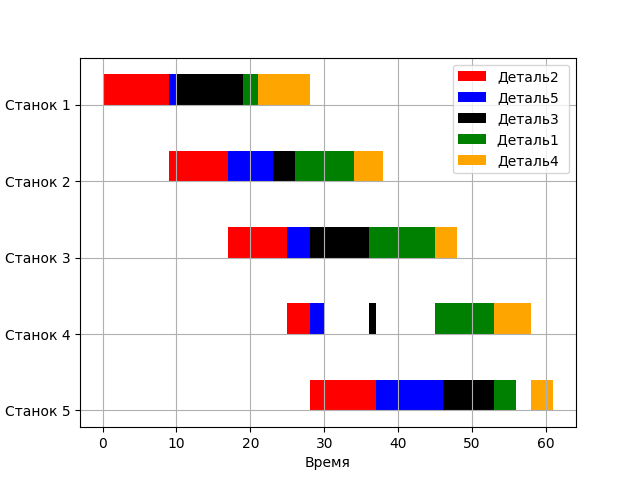
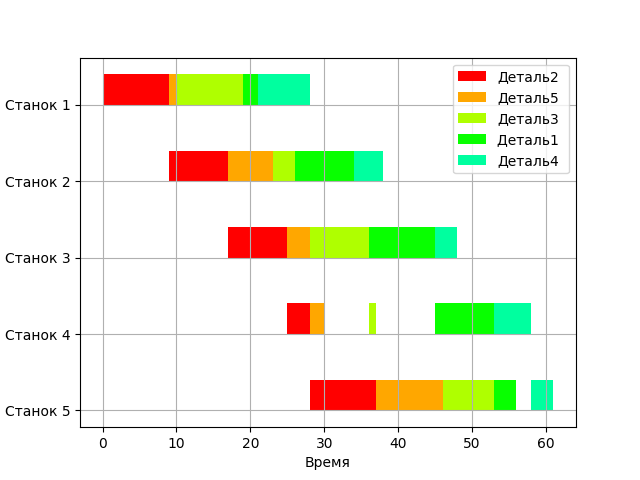
inteface update and fork to backend app

diff --git a/methods.py b/methods.py
@@ -3,10 +3,12 @@ import numpy as np
 import pandas as pd
 from math import sin
 from plot import plot
+import uuid
 class METHOD_ABSTRACT():
-    def read_data(self, filename) -> pd.DataFrame: 
+    def read_data(self, filename:str) -> pd.DataFrame: 
         data = pd.read_csv(filename)
         return data
+    
 
 
 
@@ -15,43 +17,41 @@ class FirstJohnsonGeneralizations(METHOD_ABSTRACT):
     def create_count_window(self, filename): 
         data = super().read_data(filename)
         first_row = data.loc[data.index[0]][1::].sort_values()
-        with dpg.window(label=f"Первое обощение Джонсона {filename}"):
+        with dpg.window(label=f"Первое обощение Джонсона {filename}", width= 600, height=800):
             dpg.add_text("ВХОДНОЙ МАССИВ ДЕТАЛЕЙ")
             dpg.add_text(data.to_string())
             dpg.add_text("\nПОРЯДОК ЗАПУСКА ДЕТАЛЕЙ")
             dpg.add_text(first_row.to_string())
             dpg.add_text("\nДИАГРАММА ГАНТА")
+            dpg.add_combo(label="Обработанные детали", items = first_row.index.to_list())
             plot(data, first_row)
-            #with dpg.plot(tag="plot", label="ДИАГРАММА ГАНТА", height=500, width=600):
-            #    dpg.add_plot_legend()
-            #    sindatax = []
-            #    sindatay = []
-            #    for i in range(0, 100):
-            #        sindatax.append(i / 100)
-            #        if i > 50:
-            #            sindatay.append(2)
-            #        else:
-            #            sindatay.append(1)
-            #    # REQUIRED: create x and y axes
-            #    dpg.add_plot_axis(dpg.mvXAxis, label="ВРЕМЯ ОБРАБОТКИ")
-            #    dpg.add_plot_axis(dpg.mvYAxis, label="СТАНОК", tag="yaxis")
-            #    # series belong to a y axis
-            #    #dpg.add_area_series(sindatax, sindatay, label="Деталь 1", parent="yaxis", tag="series_data", contribute_to_bounds =True)
-            #    dpg.add_bar_series([4,5], [1,1], label="Деталь 1", parent="yaxis", tag="series_data1", horizontal=True)
-            #    dpg.add_bar_series([1,1], [3,3], label="Деталь 2", parent="yaxis", tag="series_data2", horizontal=True)
-            #    dpg.custom_series([4,5], [1,1], 2, label="Custom Series", tag="demo_custom_series")
+            width, height, channels, first_image = dpg.load_image("gantt1.png")
+            texture_name = str(uuid.uuid4())
+            with dpg.texture_registry():
+                dpg.add_static_texture(width, height, first_image, tag=texture_name)
+            dpg.add_image(texture_name)
+
+                
+
 
 # ВТОРОЕ ОБОБЩЕНИЕ ДЖОНСОНА - СНАЧАЛА ИДУТ ДЕТАЛИ С МАКСИМАЛЬНЫМ ВРЕМЕНЕМ ОБРАБОТКИ НА ПОСЛЕДНЕМ СТАНКЕ
 class SecondJohnsonGeneralizations(METHOD_ABSTRACT):
     def create_count_window(self, filename): 
         data = super().read_data(filename)
         last_row = data.loc[data.index[-1]][1::].sort_values(ascending=False)
-        with dpg.window(label=f"Второе обощение Джонсона {filename}"):
+        with dpg.window(label=f"Второе обощение Джонсона {filename}", width= 600, height=800):
             dpg.add_text("ВХОДНОЙ МАССИВ ДЕТАЛЕЙ")
             dpg.add_text(data.to_string())
             dpg.add_text("\nПОРЯДОК ЗАПУСКА ДЕТАЛЕЙ")
             dpg.add_text(last_row.to_string())
+            dpg.add_combo(label="Обработанные детали", items = last_row.index.to_list())
             plot(data, last_row)
+            width, height, channels, first_image = dpg.load_image("gantt1.png")
+            texture_name = str(uuid.uuid4())
+            with dpg.texture_registry():
+                dpg.add_static_texture(width, height, first_image, tag=texture_name)
+            dpg.add_image(texture_name)
+
 
 class ThirdJohnsonGeneralizations(METHOD_ABSTRACT):
     def create_count_window(self, filename): 
@@ -62,5 +62,5 @@ class METH_CONSTR:
         return FirstJohnsonGeneralizations()
     def second_johnson_generalizations(self,) -> SecondJohnsonGeneralizations: 
         return SecondJohnsonGeneralizations()
-    def third_johnson_generalizations(self,) -> ThirdJohnsonGeneralizations: 
-        return ThirdJohnsonGeneralizations()
+#    def third_johnson_generalizations(self,) -> ThirdJohnsonGeneralizations: 
+#        return ThirdJohnsonGeneralizations()

diff --git a/fork_v1/plot.py b/fork_v1/plot.py
@@ -1,40 +1,27 @@
 import pandas as pd
-import numpy as np
-import matplotlib
 import matplotlib.pyplot as plt
-import datetime as dt
 
-def get_cmap(n, name='hsv'):
-    '''Returns a function that maps each index in 0, 1, ..., n-1 to a distinct 
-    RGB color; the keyword argument name must be a standard mpl colormap name.'''
-    return plt.cm.get_cmap(name, n)
+def get_cmap(n, name='hsv'): return plt.cm.get_cmap(name, n)
 
-def plot(df:pd.DataFrame, order:pd.Series):
-    #plt.style.use('dark_background')
+def plot(df:pd.DataFrame, order:pd.Series, filename:str):
     fig, gnt = plt.subplots()
-    gnt.name = "Диаграмма Ганта"
-    # Setting labels for x-axis and y-axis
     gnt.set_xlabel('Время')
     gnt.set_ylabel('Станки')
 
-    # Setting ticks on y-axis
     y_labels = df.iloc[:, 0].to_list()
     y_labels.reverse()
     y_ticks = [i*5+1 for i in range(1, len(y_labels)+1)]
     gnt.set_yticks(y_ticks)
     y_ticks.reverse()
-    # Labelling tickes of y-axis
     gnt.set_yticklabels(y_labels)
     delays =  [0 for i in range(1, len(y_labels)+1)]
     gnt.grid(True)
-    colors = ['red', 'blue', 'black', 'green', 'orange']
     cmap = get_cmap(10)
     detail = 0
     for index in order.index:
         data = df[index]
         workspace = 0
         next_delay = 0
-
         for val in data:
             if detail == 0:
                 gnt.broken_barh([(next_delay, val)], (y_ticks[workspace], 2), facecolors=cmap(detail), label=data.name)
@@ -42,20 +29,14 @@ def plot(df:pd.DataFrame, order:pd.Series):
                 delays[workspace] += next_delay
             else:
                 if workspace > 1 and delays[workspace] - delays[workspace-1]<0:
-                    
                     gnt.broken_barh([(-(delays[workspace] - delays[workspace-1])+delays[workspace], val)], (y_ticks[workspace], 2), facecolors=cmap(detail), label=data.name)
                     delays[workspace] += -(delays[workspace] - delays[workspace-1])+val
                 else:
                     gnt.broken_barh([(delays[workspace], val)], (y_ticks[workspace], 2), facecolors=cmap(detail), label=data.name)
                     delays[workspace] += val
-
             workspace += 1
         detail +=1
-
-    
     handles, labels = plt.gca().get_legend_handles_labels()
     by_label = dict(zip(labels, handles))
     gnt.legend(by_label.values(), by_label.keys())
-    
-    plt.savefig("gantt1.png")
-#plot(pd.read_csv('test.csv'), pd.DataFrame([]))
+    plt.savefig(filename)

diff --git a/fork_v1/main.py b/fork_v1/main.py
@@ -1,0 +1,67 @@
+import uvicorn, os, base64
+from fastapi import FastAPI, File, UploadFile
+from fastapi.middleware.cors import CORSMiddleware
+import pandas as pd
+from plot import plot
+from fastapi.responses import FileResponse
+
+app = FastAPI(
+docs_url='/api/docs',
+redoc_url='/api/redoc',
+openapi_url='/api/openapi.json'
+)
+
+app.add_middleware(
+    CORSMiddleware,
+    allow_origins=["*"],
+    allow_credentials=True,
+    allow_methods=["*"],
+    allow_headers=["*"],
+)
+
+FILE_BASEPATH = 'files' 
+PLOT_BASEPATH = 'plots'
+
+@app.post(f'/upload_csv/')
+async def create_upload_file(uploaded_file: UploadFile = File(...)):
+    file_location = f"{FILE_BASEPATH}/{uploaded_file.filename}"
+    with open(file_location, "wb+") as file_object:
+        file_object.write(uploaded_file.file.read())
+    return {"info": f"file '{uploaded_file.filename}' saved at '{file_location}'"}
+
+@app.get(f'/list_csv/')
+async def list_csv(): return os.listdir(FILE_BASEPATH)
+
+@app.get(f'/show_csv/')
+async def show_csv(filename: str):
+    df = pd.read_csv(f'{FILE_BASEPATH}/{filename}')
+    return df.to_dict()
+
+@app.get(f'/first_gunt_generalization/plot')
+async def plot_graphic(filename: str):
+    df = pd.read_csv(f'{FILE_BASEPATH}/{filename}')
+    row_order = df.loc[df.index[0]][1::].sort_values()
+    plot(df, row_order, f'{PLOT_BASEPATH}/{filename}.png')
+    return FileResponse(f"{PLOT_BASEPATH}/{filename}.png")
+
+@app.get(f'/first_gunt_generalization/order')
+async def count_order(filename: str):
+    df = pd.read_csv(f'{FILE_BASEPATH}/{filename}')
+    row_order = df.loc[df.index[0]][1::].sort_values()
+    return row_order.to_dict()
+
+@app.get(f'/second_gunt_generalization/plot')
+async def plot_graphic(filename: str):
+    df = pd.read_csv(f'{FILE_BASEPATH}/{filename}')
+    row_order = df.loc[df.index[-1]][1::].sort_values(ascending=False)
+    plot(df, row_order, f'{PLOT_BASEPATH}/{filename}.png')
+    return FileResponse(f"{PLOT_BASEPATH}/{filename}.png")
+
+@app.get(f'/second_gunt_generalization/order')
+async def count_order(filename: str):
+    df = pd.read_csv(f'{FILE_BASEPATH}/{filename}')
+    row_order = df.loc[df.index[-1]][1::].sort_values(ascending=False)
+    return row_order.to_dict()
+
+if __name__=="__main__":
+    uvicorn.run("main:app",host='0.0.0.0', port=8080, reload=True)

diff --git a/main.py b/main.py
@@ -28,7 +28,7 @@ dpg.create_viewport(title='Application', width=1000, height=1000)
 
 with dpg.window(label="READER", width=300, height=200):
     dpg.add_input_text(label="CSV файл", default_value=CSV_FILENAME, callback=set_csv_filename)
-    dpg.add_combo(label="Метод", items =METHODS_LIST, callback=set_current_method)
+    dpg.add_combo(label="Метод", items = METHODS_LIST, callback=set_current_method)
     dpg.add_button(label="Расчитать", callback=count)
 
 
